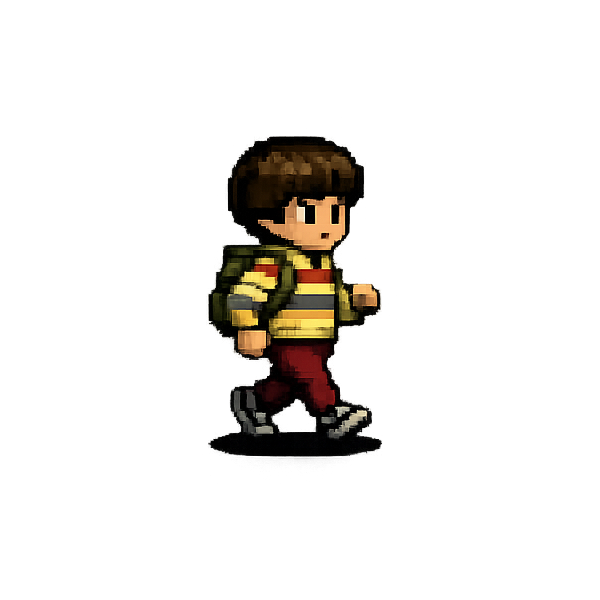
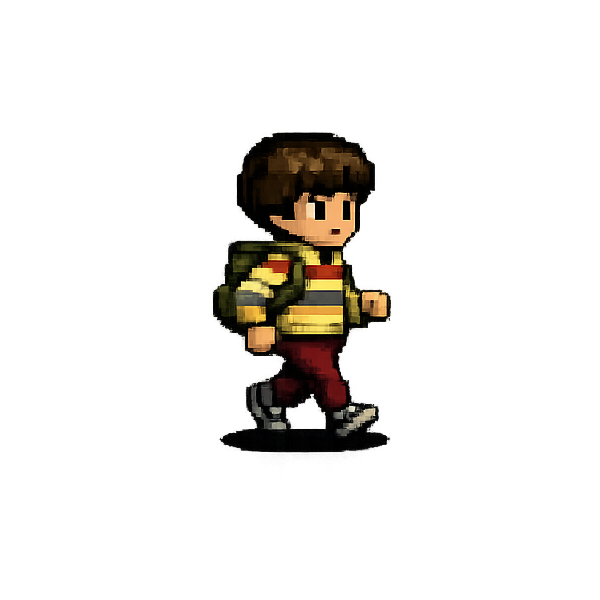
Background und Animationen erstellt

Changed region(s): [[0.33, 0.21, 0.66, 0.78]]

diff --git a/models/world.js b/models/world.js
@@ -13,10 +13,11 @@ class World {
         ];
         this.clouds = [
             new Cloud(this.worldWidth),
-            new Cloud(this.worldWidth + 350),
         ];
         this.backgroundObjects = [
-            new BackgroundObject("img/5_background/layers/layer1.png", 0, 0, this.worldWidth, this.worldHeight),
+            new BackgroundObject("img/5_background/layers/layer3.png", 0, 0, this.worldWidth, this.worldHeight),
+            new BackgroundObject("img/5_background/layers/layer2.png", 0, 80, this.worldWidth, this.worldHeight),
+            new BackgroundObject("img/5_background/layers/layer1.png", 0, 80, this.worldWidth, this.worldHeight),
         ];
 
         this.character.alignToGround(this.groundY);
@@ -28,12 +29,16 @@ class World {
     draw() {
         this.ctx.clearRect(0, 0, this.worldWidth, this.worldHeight);
 
-        this.backgroundObjects.forEach((backgroundObject) => this.addToMap(backgroundObject));
+        this.addObjectstoMap(this.backgroundObjects);
         this.clouds.forEach((cloud) => this.addToMap(cloud));
-        this.enemies.forEach((enemy) => this.addToMap(enemy));
+        this.addObjectstoMap(this.enemies);
         this.addToMap(this.character);
 
         requestAnimationFrame(() => this.draw());
+    }
+
+    addObjectstoMap(objects) {
+        objects.forEach((obj) => this.addToMap(obj));
     }
 
     addToMap(mo) {

diff --git a/models/demogorgon.class.js b/models/demogorgon.class.js
@@ -1,11 +1,33 @@
 class demogorgon extends MovableObjects 
 {
+    IMAGES_WALKING = [
+        "img/3_enemies_demogorgon/1_walk/2_w.png",
+        "img/3_enemies_demogorgon/1_walk/3_w.png",
+        "img/3_enemies_demogorgon/1_walk/4_w.png",
+        ];
+
+    
     constructor()
     {
         super();
-        this.loadImage("../img/3_enemies_demogorgon/1_walk/1_w.png");
+        this.loadImage("img/3_enemies_demogorgon/1_walk/2_w.png");
+        this.loadImages(this.IMAGES_WALKING);
         this.setSize(170, 200);
         this.x = 350 + Math.random() * 600;
+        this.speed = 0.15 + Math.random() * 0.5;
         this.alignToGround();
+        this.animate();
+        
+    }
+
+     animate() {
+        this.moveLeft();
+        setInterval(() => {
+        let i = this.currentImageIndex % this.IMAGES_WALKING.length;
+        let path = this.IMAGES_WALKING[i]; 
+        this.img = this.imageCache[path]
+        this.currentImageIndex++;
+        }, 200);
+        
     }
 }

diff --git a/models/character.class.js b/models/character.class.js
@@ -1,12 +1,34 @@
 class Character extends MovableObjects 
 {
 
+    IMAGES_WALKING = [
+        "img/2_character_will/2_walk/W-23.png",
+        "img/2_character_will/2_walk/W-24.png",
+        "img/2_character_will/2_walk/W-25.png",
+        "img/2_character_will/2_walk/W-26.png",
+        "img/2_character_will/2_walk/W-27.png",
+    ];
+
+
+
     constructor()
     {
         super();
-        this.loadImage("../img/2_character_will/2_walk/W-21.png");
+        this.loadImage("img/2_character_will/2_walk/W-23.png");
+        this.loadImages(this.IMAGES_WALKING);
         this.setSize(130, 220);
         this.alignToGround();
+        this.animate();
+    }
+
+    animate() {
+        setInterval(() => {
+        let i = this.currentImageIndex % this.IMAGES_WALKING.length;
+        let path = this.IMAGES_WALKING[i]; 
+        this.img = this.imageCache[path]
+        this.currentImageIndex++;
+        }, 100);
+        
     }
 
     jump() 

diff --git a/models/movable-objects.class.js b/models/movable-objects.class.js
@@ -6,11 +6,23 @@ class MovableObjects
     height = 150;
     width = 100;
     groundY = 400;
+    imageCache = {};
+    currentImageIndex = 0;
+    speed = 0.15;
 
     loadImage(path)
     {
         this.img = new Image();
         this.img.src = path;
+    }
+
+    loadImages(arr)
+    {
+        arr.forEach((path) => {
+            let img = new Image();
+            img.src = path;
+            this.imageCache[path] = img;
+        });
     }
 
     setSize(width, height)
@@ -26,11 +38,15 @@ class MovableObjects
     
     moveRight()
     {
-        console.log("move right");
+        setInterval(() => {
+            this.x += this.speed;
+        }, 1000 / 60);
     }
 
     moveLeft()
     {
-        console.log("move left");
+        setInterval(() => {
+            this.x -= this.speed;
+        }, 1000 / 60);
     }
 }

diff --git a/models/background-object.class.js b/models/background-object.class.js
@@ -1,10 +1,11 @@
 class BackgroundObject extends MovableObjects {
-    constructor(imagePath, x = 0, y = 0, width = 720, height = 480) {
+    constructor(imagePath, x = 0, y = 0, width = 720, height = 480, opacity = 1) {
         super();
         this.loadImage(imagePath);
         this.x = x;
         this.y = y;
         this.width = width;
         this.height = height;
+        this.opacity = opacity;
     }
 }

diff --git a/models/cloud.class.js b/models/cloud.class.js
@@ -4,10 +4,18 @@ class Cloud extends MovableObjects
     y = 20; 
     height = 250;
     width = 500;
+   
      constructor()
     {
         super();
-        this.loadImage("../img/4_clouds/1.png");
+        this.loadImage("img/4_clouds/1.png");
         this.x = Math.random() * 500;
+        this.animate();
     }  
+
+    animate() {
+        this.moveLeft();
+    }
+
+    
 }
